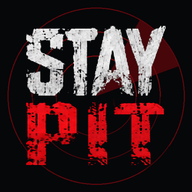
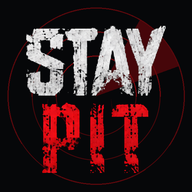
STAYPIT : lettres PIT de largeur d'origine, icône à la hauteur de STAY
Claude-Session: https://claude.ai/code/session_01JEY3z9piJCXFyAaQnvY5d2

Changed region(s): [[0.125, 0.5312, 0.875, 0.9062]]

diff --git a/public/index.html b/public/index.html
@@ -1,5 +1,5 @@
 <!doctype html>
-<html lang="fr"><head><meta charset="utf-8"><meta name="viewport" content="width=device-width,initial-scale=1,viewport-fit=cover"><meta name="theme-color" content="#070809"><title>STAYPIT / Radar Metal</title><link rel="apple-touch-icon" href="/apple-touch-icon.png?v=4"><link rel="icon" type="image/png" sizes="32x32" href="/favicon-32.png?v=4"><link rel="manifest" href="/manifest.webmanifest"><meta name="apple-mobile-web-app-title" content="STAYPIT"><meta name="theme-color" content="#060709">
+<html lang="fr"><head><meta charset="utf-8"><meta name="viewport" content="width=device-width,initial-scale=1,viewport-fit=cover"><meta name="theme-color" content="#070809"><title>STAYPIT / Radar Metal</title><link rel="apple-touch-icon" href="/apple-touch-icon.png?v=5"><link rel="icon" type="image/png" sizes="32x32" href="/favicon-32.png?v=5"><link rel="manifest" href="/manifest.webmanifest"><meta name="apple-mobile-web-app-title" content="STAYPIT"><meta name="theme-color" content="#060709">
 <style>
 @import url('https://fonts.googleapis.com/css2?family=Barlow+Condensed:wght@500;600;700;800;900&family=Inter:wght@400;500;600;700;800&display=swap');
 :root{--bg:#050607;--panel:#0b0e12;--panel2:#0f1318;--line:#27303a;--red:#e50914;--red2:#ff2733;--white:#f5f5f5;--muted:#8e99a5;--soft:#c6ccd2;--max:1440px}
@@ -528,10 +528,10 @@ body.sl-radio-on .wrap{padding-bottom:150px}
 .profile-manage-lbl{font-size:12px;color:#8a939c;font-weight:700}
 .profile-del{margin-left:auto;border:1px solid #4a1d21;border-radius:999px;background:#120809;color:#ff8a92;font:700 12px Inter,Arial,sans-serif;padding:8px 12px;cursor:pointer;min-height:0}
 </style></head><body>
-<div id="authGate" class="auth-gate"><img class="auth-hero" src="/staypit-banner.jpg?v=2" alt="STAYPIT Radar Metal"><div class="auth-box"><div class="auth-sub">Votre espace personnel</div><h1 id="authTitle" class="auth-title">Se connecter</h1><form id="authForm" class="auth-form"><input id="authUser" name="username" type="text" autocomplete="username" placeholder="Nom d'utilisateur ou e-mail" minlength="3" maxlength="32" required><input id="authEmail" name="email" type="email" autocomplete="email" placeholder="Adresse e-mail" required><input id="authPass" name="password" type="password" autocomplete="current-password" placeholder="Mot de passe" minlength="6" required><div id="authError" class="auth-error"></div><button id="authSubmit" class="btn" type="submit">SE CONNECTER</button></form><div id="authForgot" class="auth-forgot"><button type="button" onclick="showForgotPassword()">Mot de passe ou nom d’utilisateur oublié ?</button></div><div id="forgotBox" class="auth-extra"><div class="auth-forgot-help">Indiquez l’adresse e-mail de votre compte : vous recevrez votre <strong>nom d’utilisateur</strong> et un lien pour choisir un <strong>nouveau mot de passe</strong>.</div><input id="forgotEmail" type="email" autocomplete="email" placeholder="Votre adresse e-mail"><button id="forgotSubmit" class="btn" type="button" onclick="requestPasswordReset()">ENVOYER LE LIEN</button><div id="forgotMsg" class="auth-email-note"></div><button type="button" class="mini" onclick="hideForgotPassword()">Retour à la connexion</button></div><div id="authNote" class="auth-note">Chaque compte possède ses propres groupes, photos, descriptions, actualités et concerts associés.</div><div class="auth-switch"><span id="authSwitchText">Pas encore de compte ?</span> <button id="authSwitch" type="button">Créer un compte</button></div><a class="auth-privacy" href="/confidentialite.html" target="_blank" rel="noopener">Confidentialité</a></div></div>
-<div id="resetGate" class="auth-gate hidden"><img class="auth-hero" src="/staypit-banner.jpg?v=2" alt="STAYPIT Radar Metal"><div class="auth-box"><div class="auth-sub">Récupération du compte</div><h1 class="auth-title">Nouveau mot de passe</h1><form id="resetForm" class="auth-form"><input id="resetPass" type="password" autocomplete="new-password" placeholder="Nouveau mot de passe" minlength="6" required><input id="resetPass2" type="password" autocomplete="new-password" placeholder="Confirmer le mot de passe" minlength="6" required><div id="resetError" class="auth-error"></div><button class="btn" type="submit">ENREGISTRER LE NOUVEAU MOT DE PASSE</button></form><div class="auth-note">Le lien de récupération est temporaire et utilisable une seule fois.</div></div></div>
+<div id="authGate" class="auth-gate"><img class="auth-hero" src="/staypit-banner.jpg?v=3" alt="STAYPIT Radar Metal"><div class="auth-box"><div class="auth-sub">Votre espace personnel</div><h1 id="authTitle" class="auth-title">Se connecter</h1><form id="authForm" class="auth-form"><input id="authUser" name="username" type="text" autocomplete="username" placeholder="Nom d'utilisateur ou e-mail" minlength="3" maxlength="32" required><input id="authEmail" name="email" type="email" autocomplete="email" placeholder="Adresse e-mail" required><input id="authPass" name="password" type="password" autocomplete="current-password" placeholder="Mot de passe" minlength="6" required><div id="authError" class="auth-error"></div><button id="authSubmit" class="btn" type="submit">SE CONNECTER</button></form><div id="authForgot" class="auth-forgot"><button type="button" onclick="showForgotPassword()">Mot de passe ou nom d’utilisateur oublié ?</button></div><div id="forgotBox" class="auth-extra"><div class="auth-forgot-help">Indiquez l’adresse e-mail de votre compte : vous recevrez votre <strong>nom d’utilisateur</strong> et un lien pour choisir un <strong>nouveau mot de passe</strong>.</div><input id="forgotEmail" type="email" autocomplete="email" placeholder="Votre adresse e-mail"><button id="forgotSubmit" class="btn" type="button" onclick="requestPasswordReset()">ENVOYER LE LIEN</button><div id="forgotMsg" class="auth-email-note"></div><button type="button" class="mini" onclick="hideForgotPassword()">Retour à la connexion</button></div><div id="authNote" class="auth-note">Chaque compte possède ses propres groupes, photos, descriptions, actualités et concerts associés.</div><div class="auth-switch"><span id="authSwitchText">Pas encore de compte ?</span> <button id="authSwitch" type="button">Créer un compte</button></div><a class="auth-privacy" href="/confidentialite.html" target="_blank" rel="noopener">Confidentialité</a></div></div>
+<div id="resetGate" class="auth-gate hidden"><img class="auth-hero" src="/staypit-banner.jpg?v=3" alt="STAYPIT Radar Metal"><div class="auth-box"><div class="auth-sub">Récupération du compte</div><h1 class="auth-title">Nouveau mot de passe</h1><form id="resetForm" class="auth-form"><input id="resetPass" type="password" autocomplete="new-password" placeholder="Nouveau mot de passe" minlength="6" required><input id="resetPass2" type="password" autocomplete="new-password" placeholder="Confirmer le mot de passe" minlength="6" required><div id="resetError" class="auth-error"></div><button class="btn" type="submit">ENREGISTRER LE NOUVEAU MOT DE PASSE</button></form><div class="auth-note">Le lien de récupération est temporaire et utilisable une seule fois.</div></div></div>
 <div class="sticky-shell">
-<header class="hero"><img class="hero-img" id="heroImg" src="/staypit-banner.jpg?v=2" alt="STAYPIT Radar Metal"><div class="radar-sweep" id="radarSweep" aria-hidden="true"><div class="radar-dim"></div><div class="radar-beam"></div><span class="radar-blip b1"></span><span class="radar-blip b2"></span><span class="radar-blip b3"></span></div></header>
+<header class="hero"><img class="hero-img" id="heroImg" src="/staypit-banner.jpg?v=3" alt="STAYPIT Radar Metal"><div class="radar-sweep" id="radarSweep" aria-hidden="true"><div class="radar-dim"></div><div class="radar-beam"></div><span class="radar-blip b1"></span><span class="radar-blip b2"></span><span class="radar-blip b3"></span></div></header>
 <div class="nav-wrap"><div class="wrap nav-container"><nav class="nav"><button class="active" data-s="radar"><span class="nav-icon"><i data-lucide="radar" aria-hidden="true"></i><b class="sl-nav-badge" data-badge="radar" hidden></b></span><span>Actus</span></button><button data-s="live"><span class="nav-icon"><i data-lucide="ticket" aria-hidden="true"></i><b class="sl-nav-badge" data-badge="live" hidden></b></span><span>Concerts</span></button><button data-s="clips"><span class="nav-icon"><i data-lucide="headphones" aria-hidden="true"></i></span><span>Écouter</span></button><button data-s="styles"><span class="nav-icon"><svg class="sl-explorer" viewBox="0 0 24 24" fill="none" stroke="currentColor" stroke-width="1.5" stroke-linecap="round" stroke-linejoin="round" aria-hidden="true"><path d="M17.81 3.75 19.67 1.5 22.0 2.29 18.71 4.56Z"/><path d="M11.37 10.59 9.7 7.12 6.71 9.0 7.75 11.47 2.0 15.44 7.38 17.45 9.36 22.5 12.01 16.17 14.26 15.37 12.58 11.67Z"/><path d="M17.93 3.85 11.64 10.83"/><path d="M18.59 4.45 12.31 11.43"/><path d="M8.2 13.39 10.12 15.12"/></svg></span><span>Groupes</span></button><button data-s="community"><span class="nav-icon"><i data-lucide="users-round" aria-hidden="true"></i><b class="sl-nav-badge" data-badge="community" hidden></b></span><span>Communauté</span></button></nav></div></div>
 </div>
 <div class="wrap top-controls">
@@ -1467,7 +1467,7 @@ async function helpGo(view){helpView=view;const box=$('helpBody'),title=$('helpT
   box.innerHTML=back+(SL_STANDALONE?'<div class="sl-inst-done">✓ STAYPIT est déjà ouvert depuis ton écran d’accueil.</div>':'')
    +`<div class="sl-inst-tabs"><button type="button" class="${tab==='ios'?'on':''}" onclick="helpInstallTab='ios';helpGo('install')">iPhone / iPad</button><button type="button" class="${tab==='android'?'on':''}" onclick="helpInstallTab='android';helpGo('install')">Android</button></div>`
    +(tab==='ios'?ios:android)
-   +`<div class="sl-inst-res"><img src="/apple-touch-icon.png?v=4" alt=""><div><b>L’icône STAYPIT apparaît</b><small>Ouvre STAYPIT depuis cette icône : plein écran, sans barre du navigateur. Il faudra te reconnecter une fois.</small></div></div>`;return}
+   +`<div class="sl-inst-res"><img src="/apple-touch-icon.png?v=5" alt=""><div><b>L’icône STAYPIT apparaît</b><small>Ouvre STAYPIT depuis cette icône : plein écran, sans barre du navigateur. Il faudra te reconnecter une fois.</small></div></div>`;return}
  if(view==='write'){title.textContent='Nous écrire';
   box.innerHTML=back+`<form id="helpForm" class="sl-help-form" autocomplete="off"><label>Sujet</label><div class="sl-help-topics">${['Question','Bug','Idée','Autre'].map((t,i)=>`<button type="button" class="${i===0?'on':''}" data-t="${t}">${t}</button>`).join('')}</div><label for="helpMsg">Ton message</label><textarea id="helpMsg" rows="6" maxlength="3000" placeholder="Décris ta question ou le problème rencontré…"></textarea><button type="submit" class="sl-news-ok" id="helpSend">Envoyer</button><p class="sl-help-note">Tu retrouveras la réponse dans <b>Aide › Mes messages</b>. Tu peux aussi écrire à <a href="mailto:contact@stayloud-radar.online">contact@stayloud-radar.online</a>.</p></form>`;
   box.querySelectorAll('.sl-help-topics button').forEach(b=>b.onclick=()=>{box.querySelectorAll('.sl-help-topics button').forEach(x=>x.classList.toggle('on',x===b))});
@@ -2047,7 +2047,7 @@ if('serviceWorker' in navigator)window.addEventListener('load',()=>navigator.ser
  };
  const nav=on=>`<div class="tr-nav">${[['radar','Actus'],['cal','Concerts'],['head','Écouter'],['guitar','Groupes'],['users','Communauté']].map(([i,t])=>`<span class="${t===on?'on':''}">${ICON[i]}<em>${t}</em></span>`).join('')}</div>`;
  const SLIDES=[
-  {t:'Bienvenue sur STAYPIT',p:'Ton radar métal personnel : les <b>actus</b> et les <b>sorties</b> de tes groupes, leurs <b>concerts</b> avec les <b>billets</b>, ton agenda et tes <b>setlists</b>, les <b>clips</b> et la <b>radio</b> métal, au même endroit.',v:`<div class="tr-screen tr-welcome"><div class="tr-ban"><img src="/staypit-banner.jpg?v=2" alt=""><div class="tr-sweep"></div></div><div class="tr-hint">Pour l’instant, aucun groupe n’est enregistré.</div></div>`},
+  {t:'Bienvenue sur STAYPIT',p:'Ton radar métal personnel : les <b>actus</b> et les <b>sorties</b> de tes groupes, leurs <b>concerts</b> avec les <b>billets</b>, ton agenda et tes <b>setlists</b>, les <b>clips</b> et la <b>radio</b> métal, au même endroit.',v:`<div class="tr-screen tr-welcome"><div class="tr-ban"><img src="/staypit-banner.jpg?v=3" alt=""><div class="tr-sweep"></div></div><div class="tr-hint">Pour l’instant, aucun groupe n’est enregistré.</div></div>`},
   {t:'1 · Ajoute tes groupes',p:'Va dans <b>Groupes</b>, tape le nom d’un groupe puis touche <b>+ Ajouter</b>. C’est grâce à tes groupes que STAYPIT trouve les actus, les albums, les concerts et les clips.',v:`<div class="tr-screen"><div class="tr-title">GROUPES</div><div class="tr-input"><span class="tr-typing">Gojira</span><i class="tr-caret"></i></div><div class="tr-suggest"><span class="tr-av"></span><b>Gojira</b><small>Death Metal</small></div><div class="tr-btn tr-press">+ AJOUTER</div>${nav('Groupes')}<div class="tr-finger tr-f-add"></div></div>`},
   {t:'2 · Actus et sorties',p:'<b>Actualités</b> : les articles sur tes groupes des 6 derniers mois. <b>Sorties</b> : leurs albums récents et à venir. Un <b>nouvel album</b> ? Une pastille rouge s’allume sur <b>Actus</b>.',v:`<div class="tr-screen"><div class="tr-title">ACTUS</div><div class="tr-seg tr-seg2 tr-seg-static"><span>Actualités</span><span class="on">Sorties</span></div><div class="tr-new">● NOUVEAU</div>${[['GOJIRA','Album · 12 mars 2027 · à venir'],['LANDMVRKS','The Darkest Place · 2025']].map(([b,x],i)=>`<div class="tr-card" style="animation-delay:${i*.35}s"><span class="tr-cover-sm"></span><div><em>${b}</em><b>${x}</b></div></div>`).join('')}${nav('Actus')}</div>`},
   {t:'3 · Les concerts',p:'<b>Mes groupes</b> : leurs concerts en France, premières parties comprises. <b>Autour de moi</b> : tous les concerts metal autour de ta <b>position</b> ou d’une <b>ville</b>, dans le rayon choisi. Un nouveau concert d’un de tes groupes ? Pastille rouge sur <b>Concerts</b>.',v:`<div class="tr-screen"><div class="tr-title">CONCERTS</div><div class="tr-seg"><span>Mes groupes</span><span>Autour de moi</span><span>Agenda</span><i class="tr-seg-on"></i></div><div class="tr-chips"><span>10 km</span><span>20 km</span><span class="on">50 km</span><span>100 km</span></div><div class="tr-ev"><div class="tr-date"><b>18</b>OCT</div><div><em>GOJIRA <i class="tr-mine">Ton groupe</i></em><b>Le Zénith · Nantes · 38 km</b></div></div><div class="tr-ev" style="animation-delay:.4s"><div class="tr-date"><b>09</b>NOV</div><div><em>ARCH ENEMY</em><b>Le Trabendo · Paris · 21 km</b></div></div>${nav('Concerts')}</div>`},

diff --git a/public/sw.js b/public/sw.js
@@ -2,8 +2,8 @@
 // Pages: always from the network (latest version); a clear offline page otherwise.
 // Images / icons: served from the cache, refreshed in the background.
 // The API and other sites are never cached here.
-const CACHE='staypit-v5';
-const SHELL=['/manifest.webmanifest','/icon-192.png','/icon-512.png','/apple-touch-icon.png','/favicon-32.png','/staypit-banner.jpg?v=2'];
+const CACHE='staypit-v6';
+const SHELL=['/manifest.webmanifest','/icon-192.png','/icon-512.png','/apple-touch-icon.png','/favicon-32.png','/staypit-banner.jpg?v=3'];
 const OFFLINE=`<!doctype html><html lang="fr"><head><meta charset="utf-8"><meta name="viewport" content="width=device-width,initial-scale=1"><title>STAYPIT – hors ligne</title><style>body{margin:0;min-height:100vh;display:grid;place-items:center;background:#060709;color:#e8ebee;font:16px/1.5 Inter,Arial,sans-serif;text-align:center;padding:24px}img{width:96px;height:96px;border-radius:22px}h1{font-size:20px;margin:18px 0 6px}p{color:#8a939c;margin:0 0 18px}button{border:0;border-radius:999px;background:#e50914;color:#fff;font:700 15px Inter,Arial,sans-serif;padding:12px 22px}</style></head><body><div><img src="/icon-192.png" alt=""><h1>Pas de connexion</h1><p>STAYPIT a besoin d’Internet pour trouver les actus et les concerts.<br>Vérifie ta connexion puis réessaie.</p><button onclick="location.reload()">Réessayer</button></div></body></html>`;
 
 self.addEventListener('install',e=>{

diff --git a/docs/notes/V7.33.0-NOTES.md b/docs/notes/V7.33.0-NOTES.md
@@ -6,7 +6,7 @@ Le nom « STAY LOUD » est déjà une marque européenne (classe 41, concerts) :
 - Nouveau fichier de bannière : `public/staypit-banner.jpg` / `.png` (l'ancien `stayloud-banner.*` est supprimé).
 - Nom affiché partout : titre de l'onglet, écran d'accueil (manifest), présentation, aide, e-mails (mot de passe oublié, contrôle du jour), agenda (.ics), page Confidentialité.
 - Instructions d'installation : « Ouvre staypit.com… ».
-- Service worker : cache `staypit-v5` (les anciens fichiers sont rechargés).
+- Service worker : cache `staypit-v6` (les anciens fichiers sont rechargés).
 
 Volontairement inchangés :
 - l'adresse contact@stayloud-radar.online, tant que la redirection e-mail de staypit.com n'est pas en place ;
